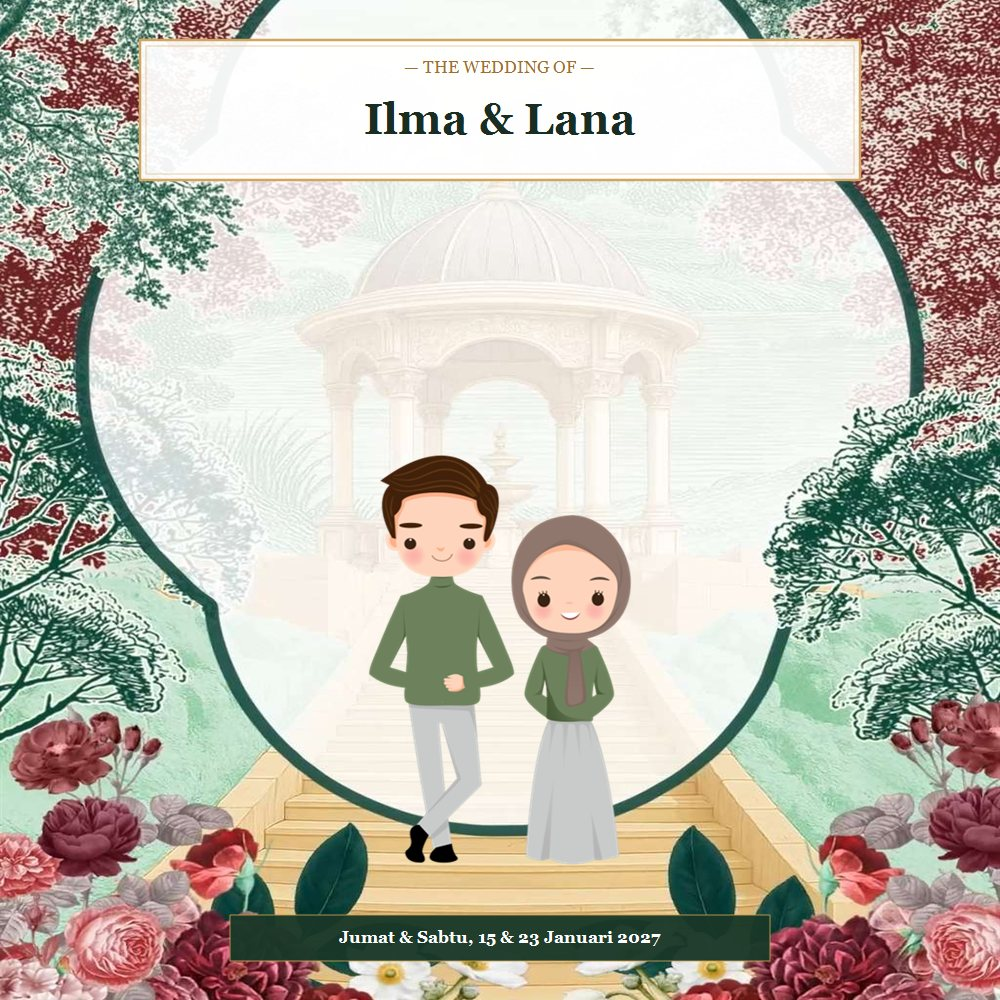
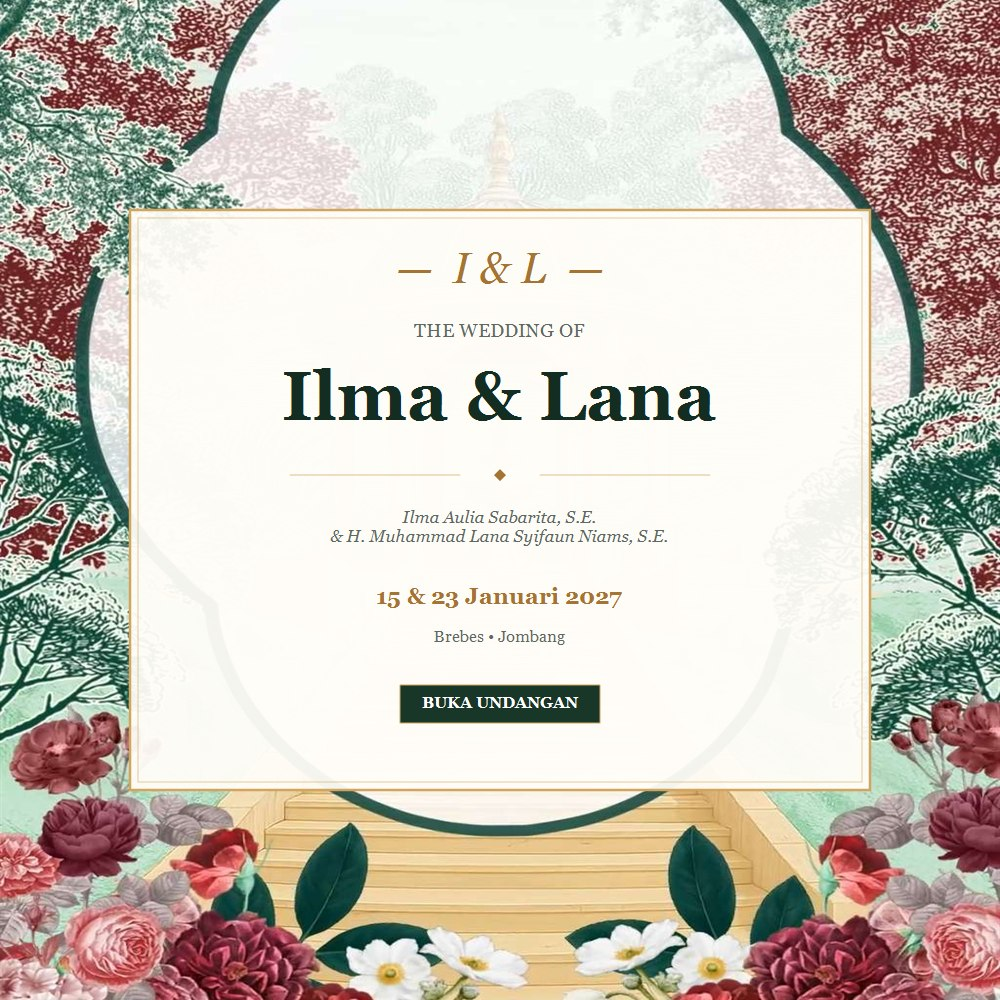
feat: use elegant couple name typography for link preview without cartoon illustration

Changed region(s): [[0.124, 0.031, 0.899, 0.868], [0.217, 0.899, 0.775, 0.961]]

diff --git a/index.html b/index.html
@@ -16,9 +16,9 @@
 	<meta property="og:url" content="https://andalbaproject.github.io/undangan-pernikahan-Ilma-Lana/" />
 	<meta property="og:site_name" content="The Wedding of Ilma &amp; Lana" />
 	<meta property="article:modified_time" content="2026-09-14T01:26:05+00:00" />
-	<meta property="og:image" content="https://andalbaproject.github.io/undangan-pernikahan-Ilma-Lana/preview-wedding.jpg?v=2" />
-	<link rel="image_src" href="https://andalbaproject.github.io/undangan-pernikahan-Ilma-Lana/preview-wedding.jpg?v=2" />
-	<meta property="og:image:secure_url" content="https://andalbaproject.github.io/undangan-pernikahan-Ilma-Lana/preview-wedding.jpg?v=2" />
+	<meta property="og:image" content="https://andalbaproject.github.io/undangan-pernikahan-Ilma-Lana/preview-wedding.jpg?v=3" />
+	<link rel="image_src" href="https://andalbaproject.github.io/undangan-pernikahan-Ilma-Lana/preview-wedding.jpg?v=3" />
+	<meta property="og:image:secure_url" content="https://andalbaproject.github.io/undangan-pernikahan-Ilma-Lana/preview-wedding.jpg?v=3" />
 	<meta property="og:image:width" content="1200" />
 	<meta property="og:image:height" content="1200" />
 	<meta property="og:image:type" content="image/jpeg" />
@@ -26,10 +26,10 @@
 	<meta name="twitter:card" content="summary_large_image" />
 	<meta name="twitter:title" content="The Wedding of Ilma &amp; Lana" />
 	<meta name="twitter:description" content="Undangan Pernikahan Ilma Aulia Sabarita, S.E. &amp; H. Muhammad Lana Syifaun Niams, S.E. - Andalba Project" />
-	<meta name="twitter:image" content="https://andalbaproject.github.io/undangan-pernikahan-Ilma-Lana/preview-wedding.jpg?v=2" />
+	<meta name="twitter:image" content="https://andalbaproject.github.io/undangan-pernikahan-Ilma-Lana/preview-wedding.jpg?v=3" />
 	<meta name="twitter:label1" content="Estimasi waktu membaca" />
 	<meta name="twitter:data1" content="1 menit" />
-	<script type="application/ld+json" class="yoast-schema-graph">{"@context":"https:\/\/schema.org","@graph":[{"@type":"WebPage","@id":"https:\/\/andalbaproject.github.io\/undangan-pernikahan-Ilma-Lana\/","url":"https:\/\/andalbaproject.github.io\/undangan-pernikahan-Ilma-Lana\/","name":"The Wedding of Ilma &amp; Lana","isPartOf":{"@id":"https:\/\/inv.andalbaproject.id\/#website"},"primaryImageOfPage":{"@id":"https:\/\/andalbaproject.github.io\/undangan-pernikahan-Ilma-Lana\/#primaryimage"},"image":{"@id":"https:\/\/andalbaproject.github.io\/undangan-pernikahan-Ilma-Lana\/#primaryimage"},"thumbnailUrl":"https:\/\/andalbaproject.github.io\/undangan-pernikahan-Ilma-Lana\/preview-wedding.jpg?v=2","datePublished":"2025-11-22T10:43:40+00:00","dateModified":"2026-09-14T01:26:05+00:00","description":"Buat undangan website untuk pernikahanmu secara mudah, murah dan cepat. Jadikan acara kamu jadi lebih berkesan !","breadcrumb":{"@id":"https:\/\/andalbaproject.github.io\/undangan-pernikahan-Ilma-Lana\/#breadcrumb"},"inLanguage":"id","potentialAction":[{"@type":"ReadAction","target":["https:\/\/andalbaproject.github.io\/undangan-pernikahan-Ilma-Lana\/"]}]},{"@type":"ImageObject","inLanguage":"id","@id":"https:\/\/andalbaproject.github.io\/undangan-pernikahan-Ilma-Lana\/#primaryimage","url":"https:\/\/andalbaproject.github.io\/undangan-pernikahan-Ilma-Lana\/preview-wedding.jpg?v=2","contentUrl":"https:\/\/andalbaproject.github.io\/undangan-pernikahan-Ilma-Lana\/preview-wedding.jpg?v=2","width":1024,"height":1027},{"@type":"BreadcrumbList","@id":"https:\/\/andalbaproject.github.io\/undangan-pernikahan-Ilma-Lana\/#breadcrumb","itemListElement":[{"@type":"ListItem","position":1,"name":"Home","item":"https:\/\/inv.andalbaproject.id\/"},{"@type":"ListItem","position":2,"name":"The Wedding of Ilma &amp; Lana"}]},{"@type":"WebSite","@id":"https:\/\/inv.andalbaproject.id\/#website","url":"https:\/\/inv.andalbaproject.id\/","name":"Andalba Project","description":"Sebar Undangan sambil Rebahan","publisher":{"@id":"https:\/\/inv.andalbaproject.id\/#organization"},"inLanguage":"id"},{"@type":"Organization","@id":"https:\/\/inv.andalbaproject.id\/#organization","name":"Andalba Project","url":"https:\/\/inv.andalbaproject.id\/","logo":{"@type":"ImageObject","inLanguage":"id","@id":"https:\/\/inv.andalbaproject.id\/#\/schema\/logo\/image\/","url":"https:\/\/inv.andalbaproject.id\/wp-content\/uploads\/2025\/03\/cropped-cropped-PUNAKAWAN.png","contentUrl":"https:\/\/inv.andalbaproject.id\/wp-content\/uploads\/2025\/03\/cropped-cropped-PUNAKAWAN.png","width":512,"height":512,"caption":"Andalba Project"},"image":{"@id":"https:\/\/inv.andalbaproject.id\/#\/schema\/logo\/image\/"}}]}</script>
+	<script type="application/ld+json" class="yoast-schema-graph">{"@context":"https:\/\/schema.org","@graph":[{"@type":"WebPage","@id":"https:\/\/andalbaproject.github.io\/undangan-pernikahan-Ilma-Lana\/","url":"https:\/\/andalbaproject.github.io\/undangan-pernikahan-Ilma-Lana\/","name":"The Wedding of Ilma &amp; Lana","isPartOf":{"@id":"https:\/\/inv.andalbaproject.id\/#website"},"primaryImageOfPage":{"@id":"https:\/\/andalbaproject.github.io\/undangan-pernikahan-Ilma-Lana\/#primaryimage"},"image":{"@id":"https:\/\/andalbaproject.github.io\/undangan-pernikahan-Ilma-Lana\/#primaryimage"},"thumbnailUrl":"https:\/\/andalbaproject.github.io\/undangan-pernikahan-Ilma-Lana\/preview-wedding.jpg?v=3","datePublished":"2025-11-22T10:43:40+00:00","dateModified":"2026-09-14T01:26:05+00:00","description":"Buat undangan website untuk pernikahanmu secara mudah, murah dan cepat. Jadikan acara kamu jadi lebih berkesan !","breadcrumb":{"@id":"https:\/\/andalbaproject.github.io\/undangan-pernikahan-Ilma-Lana\/#breadcrumb"},"inLanguage":"id","potentialAction":[{"@type":"ReadAction","target":["https:\/\/andalbaproject.github.io\/undangan-pernikahan-Ilma-Lana\/"]}]},{"@type":"ImageObject","inLanguage":"id","@id":"https:\/\/andalbaproject.github.io\/undangan-pernikahan-Ilma-Lana\/#primaryimage","url":"https:\/\/andalbaproject.github.io\/undangan-pernikahan-Ilma-Lana\/preview-wedding.jpg?v=3","contentUrl":"https:\/\/andalbaproject.github.io\/undangan-pernikahan-Ilma-Lana\/preview-wedding.jpg?v=3","width":1024,"height":1027},{"@type":"BreadcrumbList","@id":"https:\/\/andalbaproject.github.io\/undangan-pernikahan-Ilma-Lana\/#breadcrumb","itemListElement":[{"@type":"ListItem","position":1,"name":"Home","item":"https:\/\/inv.andalbaproject.id\/"},{"@type":"ListItem","position":2,"name":"The Wedding of Ilma &amp; Lana"}]},{"@type":"WebSite","@id":"https:\/\/inv.andalbaproject.id\/#website","url":"https:\/\/inv.andalbaproject.id\/","name":"Andalba Project","description":"Sebar Undangan sambil Rebahan","publisher":{"@id":"https:\/\/inv.andalbaproject.id\/#organization"},"inLanguage":"id"},{"@type":"Organization","@id":"https:\/\/inv.andalbaproject.id\/#organization","name":"Andalba Project","url":"https:\/\/inv.andalbaproject.id\/","logo":{"@type":"ImageObject","inLanguage":"id","@id":"https:\/\/inv.andalbaproject.id\/#\/schema\/logo\/image\/","url":"https:\/\/inv.andalbaproject.id\/wp-content\/uploads\/2025\/03\/cropped-cropped-PUNAKAWAN.png","contentUrl":"https:\/\/inv.andalbaproject.id\/wp-content\/uploads\/2025\/03\/cropped-cropped-PUNAKAWAN.png","width":512,"height":512,"caption":"Andalba Project"},"image":{"@id":"https:\/\/inv.andalbaproject.id\/#\/schema\/logo\/image\/"}}]}</script>
 	<!-- / Yoast SEO plugin. -->
 
 
@@ -1962,7 +1962,7 @@ jQuery.uiBackCompat = true;
 </script>
 <script id="jquery-ui-core-js" src="assets/site/wp-includes/js/jquery/ui/core.min.js"></script>
 <script id="elementor-frontend-js-before">
-var elementorFrontendConfig = {"environmentMode":{"edit":false,"wpPreview":false,"isScriptDebug":false},"i18n":{"shareOnFacebook":"Bagikan di Facebook","shareOnX":"Share on X","pinIt":"Buat Pin","download":"Unduh","downloadImage":"Unduh gambar","fullscreen":"Layar Penuh","zoom":"Perbesar","share":"Bagikan","playVideo":"Putar Video","previous":"Sebelumnya","next":"Selanjutnya","close":"Tutup","a11yCarouselPrevSlideMessage":"Slide sebelumnya","a11yCarouselNextSlideMessage":"Slide selanjutnya","a11yCarouselFirstSlideMessage":"This is the first slide","a11yCarouselLastSlideMessage":"This is the last slide","a11yCarouselPaginationBulletMessage":"Go to slide"},"is_rtl":false,"breakpoints":{"xs":0,"sm":480,"md":768,"lg":1025,"xl":1440,"xxl":1600},"responsive":{"breakpoints":{"mobile":{"label":"Mobile Portrait","value":767,"default_value":767,"direction":"max","is_enabled":true},"mobile_extra":{"label":"Mobile Landscape","value":880,"default_value":880,"direction":"max","is_enabled":false},"tablet":{"label":"Tablet Portrait","value":1024,"default_value":1024,"direction":"max","is_enabled":true},"tablet_extra":{"label":"Tablet Landscape","value":1200,"default_value":1200,"direction":"max","is_enabled":false},"laptop":{"label":"Laptop","value":1366,"default_value":1366,"direction":"max","is_enabled":false},"widescreen":{"label":"Layar lebar","value":2400,"default_value":2400,"direction":"min","is_enabled":false}},"hasCustomBreakpoints":false},"version":"4.2.3","is_static":false,"experimentalFeatures":{"additional_custom_breakpoints":true,"container":true,"e_panel_promotions":true,"theme_builder_v2":true,"hello-theme-header-footer":true,"nested-elements":true,"global_classes_should_enforce_capabilities":true,"e_variables":true,"e_opt_in_v4_page":true,"e_components":true,"e_interactions":true,"e_widget_creation":true,"import-export-customization":true,"e_pro_atomic_form":true,"e_pro_collection_loop":true,"e_pro_variables":true,"e_pro_interactions":true},"urls":{"assets":"https:\/\/inv.andalbaproject.id\/wp-content\/plugins\/elementor\/assets\/","ajaxurl":"https:\/\/inv.andalbaproject.id\/wp-admin\/admin-ajax.php","uploadUrl":"https:\/\/inv.andalbaproject.id\/wp-content\/uploads"},"nonces":{"floatingButtonsClickTracking":"9c2504e08d","atomicFormsSendForm":"24eb3c442e"},"swiperClass":"swiper","settings":{"page":[],"editorPreferences":[]},"kit":{"active_breakpoints":["viewport_mobile","viewport_tablet"],"global_image_lightbox":"yes","lightbox_enable_counter":"yes","lightbox_enable_fullscreen":"yes","lightbox_enable_zoom":"yes","lightbox_enable_share":"yes","lightbox_title_src":"title","lightbox_description_src":"description","hello_header_logo_type":"logo","hello_footer_logo_type":"logo"},"post":{"id":32125,"title":"The%20Wedding%20of%20Ilma%20%26%20Lana","excerpt":"","featuredImage":"https:\/\/andalbaproject.github.io\/undangan-pernikahan-Ilma-Lana\/preview-wedding.jpg?v=2"}};
+var elementorFrontendConfig = {"environmentMode":{"edit":false,"wpPreview":false,"isScriptDebug":false},"i18n":{"shareOnFacebook":"Bagikan di Facebook","shareOnX":"Share on X","pinIt":"Buat Pin","download":"Unduh","downloadImage":"Unduh gambar","fullscreen":"Layar Penuh","zoom":"Perbesar","share":"Bagikan","playVideo":"Putar Video","previous":"Sebelumnya","next":"Selanjutnya","close":"Tutup","a11yCarouselPrevSlideMessage":"Slide sebelumnya","a11yCarouselNextSlideMessage":"Slide selanjutnya","a11yCarouselFirstSlideMessage":"This is the first slide","a11yCarouselLastSlideMessage":"This is the last slide","a11yCarouselPaginationBulletMessage":"Go to slide"},"is_rtl":false,"breakpoints":{"xs":0,"sm":480,"md":768,"lg":1025,"xl":1440,"xxl":1600},"responsive":{"breakpoints":{"mobile":{"label":"Mobile Portrait","value":767,"default_value":767,"direction":"max","is_enabled":true},"mobile_extra":{"label":"Mobile Landscape","value":880,"default_value":880,"direction":"max","is_enabled":false},"tablet":{"label":"Tablet Portrait","value":1024,"default_value":1024,"direction":"max","is_enabled":true},"tablet_extra":{"label":"Tablet Landscape","value":1200,"default_value":1200,"direction":"max","is_enabled":false},"laptop":{"label":"Laptop","value":1366,"default_value":1366,"direction":"max","is_enabled":false},"widescreen":{"label":"Layar lebar","value":2400,"default_value":2400,"direction":"min","is_enabled":false}},"hasCustomBreakpoints":false},"version":"4.2.3","is_static":false,"experimentalFeatures":{"additional_custom_breakpoints":true,"container":true,"e_panel_promotions":true,"theme_builder_v2":true,"hello-theme-header-footer":true,"nested-elements":true,"global_classes_should_enforce_capabilities":true,"e_variables":true,"e_opt_in_v4_page":true,"e_components":true,"e_interactions":true,"e_widget_creation":true,"import-export-customization":true,"e_pro_atomic_form":true,"e_pro_collection_loop":true,"e_pro_variables":true,"e_pro_interactions":true},"urls":{"assets":"https:\/\/inv.andalbaproject.id\/wp-content\/plugins\/elementor\/assets\/","ajaxurl":"https:\/\/inv.andalbaproject.id\/wp-admin\/admin-ajax.php","uploadUrl":"https:\/\/inv.andalbaproject.id\/wp-content\/uploads"},"nonces":{"floatingButtonsClickTracking":"9c2504e08d","atomicFormsSendForm":"24eb3c442e"},"swiperClass":"swiper","settings":{"page":[],"editorPreferences":[]},"kit":{"active_breakpoints":["viewport_mobile","viewport_tablet"],"global_image_lightbox":"yes","lightbox_enable_counter":"yes","lightbox_enable_fullscreen":"yes","lightbox_enable_zoom":"yes","lightbox_enable_share":"yes","lightbox_title_src":"title","lightbox_description_src":"description","hello_header_logo_type":"logo","hello_footer_logo_type":"logo"},"post":{"id":32125,"title":"The%20Wedding%20of%20Ilma%20%26%20Lana","excerpt":"","featuredImage":"https:\/\/andalbaproject.github.io\/undangan-pernikahan-Ilma-Lana\/preview-wedding.jpg?v=3"}};
 //# sourceURL=elementor-frontend-js-before
 </script>
 <script id="elementor-frontend-js" src="assets/site/wp-content/plugins/elementor/assets/js/frontend.min.js"></script>
